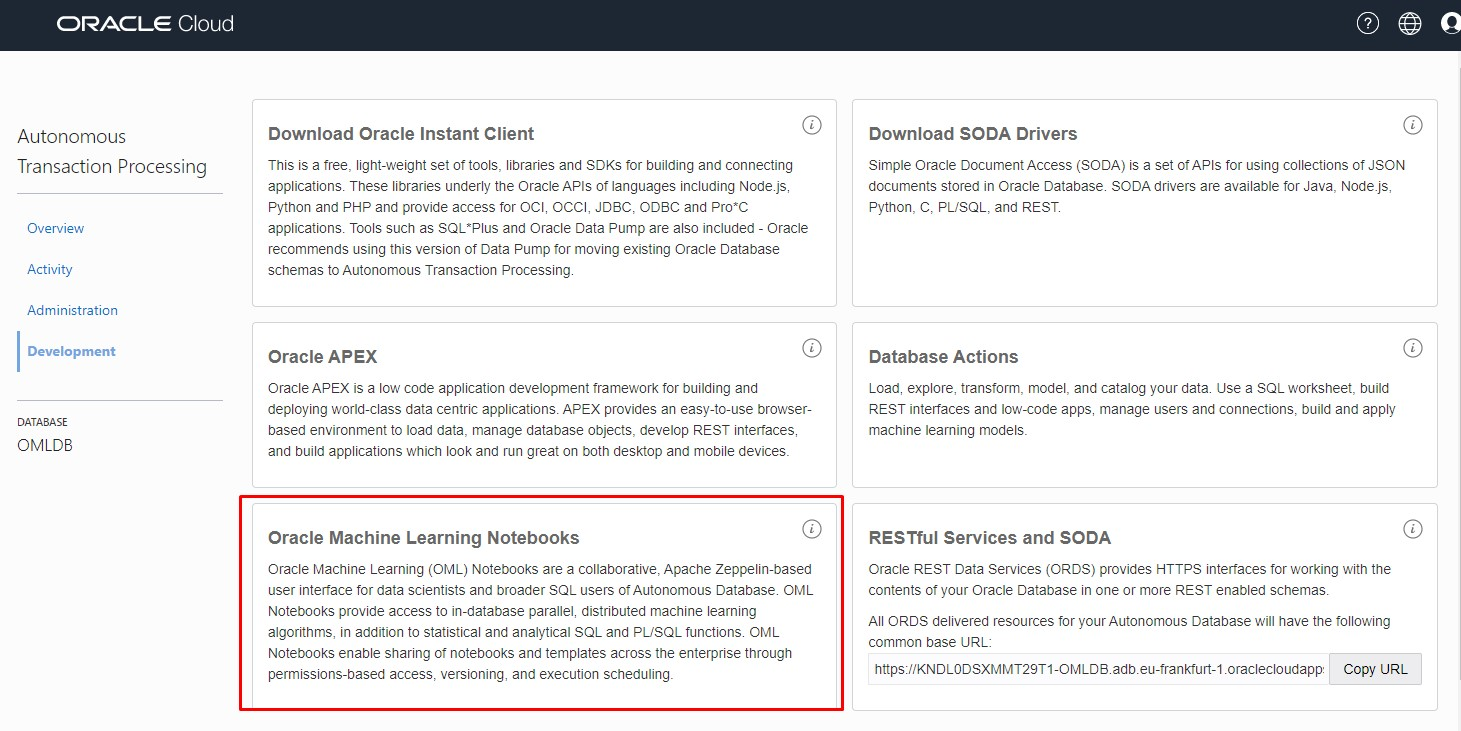
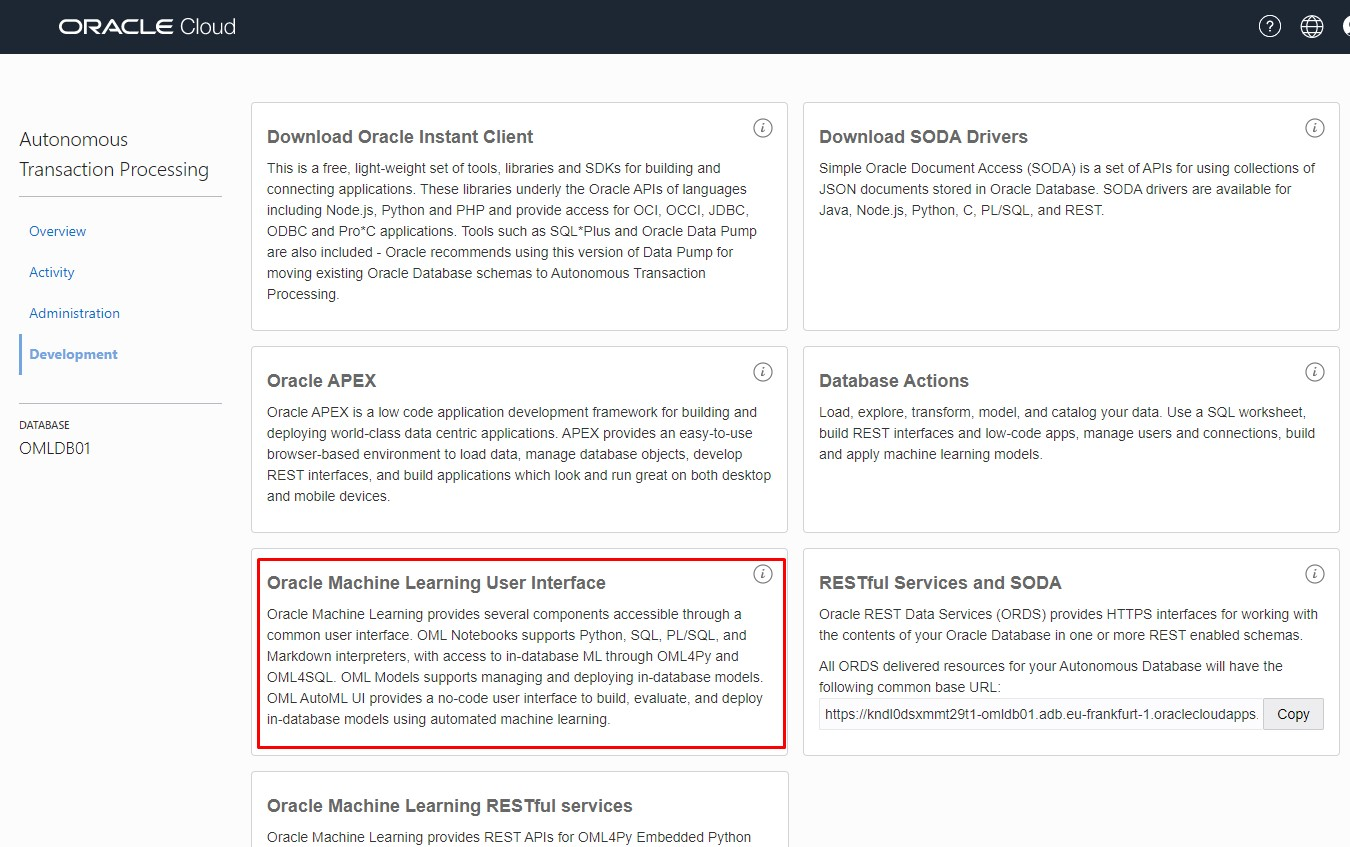
Updated the phrasing and some screenshots

diff --git a/oml-services/oml-notebook-and-automl-ui/oml-notebook-and-automl-ui.md b/oml-services/oml-notebook-and-automl-ui/oml-notebook-and-automl-ui.md
@@ -1,14 +1,16 @@
-# Creating models using OML Notebook and AutoML UI
+# Creating models using OML Notebooks and OML AutoML UI
 
-In this section we will connect to OML notebooks and split the data in train and test chunks. We will use the train data to run the AutoML UI and create a good model to make our prediction. The model we will deploy it to be used with rest services in the next sections.
+In this section we will connect to OML Notebooks and split the data in train and test chunks. We will use the train data to run the OML AutoML UI and create a good model to make our prediction. We will deploy the model for use with OML Services REST endpoints in the next sections.
+
+
 
 Estimated Time: 15 minutes
 
 ### Objectives
 
-* Create an OML Notebook
+* Create an OML notebook
 * Split the data into Train and Test Data
-* Use AutoML UI to create the models
+* Use OML AutoML UI to create the models
 * See the models created and Deploy one
 
 
@@ -19,7 +21,7 @@ Estimated Time: 15 minutes
 
 ##                                           
 
-## Task 1: Introduce Insurance Customer Data
+## Task 1: Connect to OML Notebooks and display Insurance Customer Data
 
 * In the Autonomous Database instance details page. Click on the Service Console button.
   ![ADB-instance-home](images/prerequisites-screenshot-22.jpg)
@@ -27,23 +29,13 @@ Estimated Time: 15 minutes
 * A new page with the service console is opened. In the Overview section we see the details of this specific instance. We can go to the Development section in the left side.
   ![ADB-service-console](images/prerequisites-screenshot-23.jpg)
 
-* In the Development section, notice the **Oracle Machine Learning RESTful services** section.
-  ![ADB-service-console](images/prerequisites-screenshot-X23.jpg)
 
-  Note 2 important URLs from this section:
-  + The URL to obtain a REST authentication token for OML-provided REST APIs:
-  `https://<oml-cloud-service-location-url>.oraclecloudapps.com/omlusers/`
-
-  + All OML Services REST APIs use the following common base URL:
-  `https://<oml-cloud-service-location-url>.oraclecloudapps.com/omlmod/`
-
-
-* Click on Oracle Machine Learning Notebooks.
+* Click on Oracle Machine Learning User Interface.
   ![ADB-service-console](images/prerequisites-screenshot-24.jpg)
 
-* Connect to OML Machine Learning Notebooks in Autonomous Database
+* Login to OML Machine Learning User Interface in Autonomous Database
 
-  Access the OML Machine Learning Notebooks link and connect with the credentials that we created earlier. In our case the credentials are:
+  Access the Oracle Machine Learning Notebooks link and connect with the credentials that we created earlier. In our case the credentials are:
 
    - Username: **OMLUSER**
    - Password: **Welcome12345**
@@ -91,8 +83,8 @@ Estimated Time: 15 minutes
     ````
     ![create-training-table](images/automl-screenshot-4.jpg)
 
-    Notice that we skip the ``LTV`` column so it would not influence the results. We keep the ``LTV_BIN`` column to be the target for learning.
-    Our goal is to learn how customers are classified in the 4 groups, that are the ``LTV_BIN`` groups. For this particular workshop we leave outside 3 specific customers so we can use them to demo the test of our models.
+    Notice that we skip the ``LTV`` column so it would not influence the results. We keep the ``LTV_BIN`` column to be the target for our supervised learning classification model.
+    Our goal is to build a model that can predict which LTV category each customer likely belongs to. For this particular workshop we exclude 3 specific customers so we will score 3 different models using their data.
 
 
 * Create the test table for our Auto ML UI
@@ -111,7 +103,7 @@ Estimated Time: 15 minutes
     Notice that in the testing table we will not use any of the leading ``LTV`` or ``LTV_BIN`` columns. These column might be misleading in the process. We will still use them in our verification process.
 
 
-## Task 2: Use AutoML UI from Autonomous Database
+## Task 2: Use OML AutoML UI from Oracle Autonomous Database
 
 * Go to the Main menu on the top left side near the Oracle Machine Learning icon.
 ![AutoML-menu](images/automl-screenshot-X06.jpg)
@@ -138,7 +130,7 @@ Estimated Time: 15 minutes
 
     ![AutoML-additional-settings](images/automl-screenshot-9.jpg)
 
-    Notice that we can choose the Database Service Level to High, and select by which metric should we compare the algorithms, and which predefined algorithms to include or exclude from this experiment.
+    Notice that we can set the Database Service Level to High, and select by which metric we should compare the models, and which predefined algorithms to include or exclude from this experiment.
 
       - Choose the following options for your experiment:
 
@@ -154,17 +146,17 @@ Estimated Time: 15 minutes
 
     ![Precision and Recall](images/Model_metric.jpg)
 
-* Run the Auto ML for classification by clicking **```Start```** and **```Better Accuracy```**.
+* Run OML Auto ML experiment by clicking **```Start```** and **```Better Accuracy```**.
 
   ![Run-AutoML](images/automl-screenshot-10.jpg)
 
-  The AutoML Classification will run for several minutes showing which top 5 algorithms have a higher Balanced Accuracy. The running process takes around 10 minutes.
+  The AutoML Classification will run for several minutes showing which top 5 algorithms have a Better Accuracy. The running process takes around 10 minutes.
 
-* And the result of the Auto ML Classification
+* And the result of the experiment
 
   ![Classification Experiment Result](images/automl-screenshot-11.jpg)
 
-  Each model described here is based on an algorithm and ran against our training data. We can click on the model name and see its details.
+  Each model described here is based on one of the automatically selected algorithms. We can click on the model name and see its details.
 
   ![Chose a model](images/automl-screenshot-12.jpg)
 
@@ -172,11 +164,12 @@ Estimated Time: 15 minutes
 
   ![Model Prediction Impacts](images/automl-screenshot-13.jpg)
 
-  Notice how the other table columns impact differently our model and which column has a higher weight in it. We can click on the Confusion Matrix tab.
+  Notice how the other predictor columns impact our model differently and which columns have a higher weight. We can click on the Confusion Matrix tab.
 
   ![Model Confusion Matrix](images/automl-screenshot-14.jpg)
 
-  There we can see for each class: **LOW**, **MEDIUM**, **HIGH**, **VERY HIGH** what percentage of customers are actually in that class and what percentage are predicted to be in that class.
+  There we can see for each class: **LOW**, **MEDIUM**, **HIGH**, **VERY HIGH** what percentage of customers correctly predicted for each combination of actual and predicted values.
+
 
 * We can rename the Support Vector Machine model so it would be easier to recognize in the next sections. For this we can select the model and click on the Rename button.
 
@@ -186,14 +179,14 @@ Estimated Time: 15 minutes
 
   ![Model Rename ](images/automl-screenshot-X114.jpg)
 
-* The model is now renamed in the results page also.
+* The model is now renamed in the Leader Board.
 
   ![Model Rename ](images/automl-screenshot-X1114.jpg)
 
 
 ## Task 3: Deploy the model for REST API access using OML Services
 
-The next steps would be to take a model and deploy it for OML Services Rest API access.
+The next steps are to take a model and deploy it for OML Services for access via Rest endpoints.
 
 * Go to the Main menu on the top left side near the Oracle Machine Learning icon.
   ![AutoML-menu](images/automl-screenshot-X06.jpg)
@@ -236,7 +229,7 @@ The next steps would be to take a model and deploy it for OML Services Rest API 
 
 ## Task 4: Verify the classification prediction
 
-  * Return to the OML Notebook Scratchpad we created earlier. Click on the menu and chose Notebooks.
+  * Return to the OML Notebooks Scratchpad we created earlier. Click on the menu and chose Notebooks.
   ![Classification Prediction](images/automl-screenshot-21.jpg)
 
 
@@ -264,7 +257,7 @@ The next steps would be to take a model and deploy it for OML Services Rest API 
 
   ![Classification Prediction](images/automl-screenshot-34.jpg)
 
- In SQL statement it is returned the most probable group or class for the data provided. In out case the prediction is the same as the actual ``LTB_BIN`` column in ``CUSTOMER_INSURANCE`` initial table.
+ The SQL statement returns the most probable group or class for the data provided in the column PREDICTION with it’s corresponding prediction probabilty. In out case the prediction is the same as the actual ``LTB_BIN`` column in ``CUSTOMER_INSURANCE`` initial table.
 
 ## Acknowledgements
 * **Authors** -  Andrei Manoliu, Milton Wan

diff --git a/oml-services/preparation/preparation.md b/oml-services/preparation/preparation.md
@@ -2,9 +2,9 @@
 
 ## Introduction
 
-In this lab we will start from a newly created Oracle Autonomous database and prepare it for our workshop.
+In this lab we will start from a newly created Oracle Autonomous Database instance and prepare it the workshop.
 
- We will collect the connection details like Tenancy ID, database name, create the users and passwords. After we will load the data into Autonomous Database and prepare to use it in the Machine Learning Notebooks.
+ You will collect the connection details like Tenancy ID, database name, create the users and passwords. After you will load the data into Autonomous Database and prepare to use it in Oracle Machine Learning Notebooks.
 
 
 Estimated Lab Time: 15 minutes
@@ -34,13 +34,13 @@ Estimated Lab Time: 15 minutes
 * In the Autonomous Database instance detail page, click on the Database Actions button.
 ![ADB-instance-tools](images/prerequisites-screenshot-3.jpg)
 
-* When prompt, enter the **Admin** username.
+* When prompted, enter the **Admin** username.
 ![ADB-actions-user](images/prerequisites-screenshot-4.jpg)
 
-* When prompt, enter the password for the Admin user and click Sign in.
+* When prompted, enter the password for the Admin user and click Sign in.
 ![ADB-actions-pass](images/prerequisites-screenshot-5.jpg)
 
-* Database Actions Launchpad page is now open. Here we have multiple tools available to easily manage and use the database, develop new applications or REST modules or manage the data inside the database.
+* The Database Actions launchpad page is now open. Here we have multiple tools available to easily manage and use the database, develop new applications or REST modules or manage data inside the database.
 
  We will choose Data Load option in the Data Tools category.
 ![ADB-data-load](images/prerequisites-screenshot-6.jpg)
@@ -78,10 +78,10 @@ The next step is to create the OML User and to add the data in his schema.
 * Returning in the Autonomous Database instance, click on Tools tab and click on the **Open Oracle ML User Administration**
 ![ADB-instance-home](images/prerequisites-screenshot-13.jpg)
 
-* In the Oracle Machine Learning Database Administrator credentials page enter the username: **ADMIN** and his password.
+* In the Oracle Machine Learning Database Administrator credentials page enter the username: **ADMIN** and password.
 ![ADB-oml-admin](images/prerequisites-screenshot-14.jpg)
 
-* In the Machine Learning User Administration  we see only the Admin user with the System Administrator role. Click on the Create button to create another user.
+* In the Machine Learning User Administration  we see only the ADMIN user with the System Administrator role. Click on the Create button to create another user.
 ![ADB-oml-admin](images/prerequisites-screenshot-15.jpg)
 
 * In the Create User page enter the following:
@@ -97,7 +97,7 @@ The next step is to create the OML User and to add the data in his schema.
     Click Create.
     ![ADB-oml-user](images/prerequisites-screenshot-16.jpg)
 
-* Now we have another user named OMLUSER available.
+* Now we have a new user named OMLUSER available.
 ![ADB-oml-user](images/prerequisites-screenshot-17.jpg)
 
 OMLUSER is also a database user and for the moment he doesn't have access to the customer insurance data we loaded in the admin user. so the next step is to move the data in the OMLUSER schema.
@@ -109,19 +109,19 @@ OMLUSER is also a database user and for the moment he doesn't have access to the
 * Returning in the Autonomous Database instance .Click **Database Actions**.
 ![ADB-instance-tools](images/prerequisites-screenshot-3.jpg)
 
-* When prompt, enter the **Admin** username.
+* When prompted, enter the **Admin** username.
 ![ADB-actions-user](images/prerequisites-screenshot-4.jpg)
 
-* When prompt, enter the password for the Admin user and click Sign in.
+* When prompted, enter the password for the Admin user and click Sign in.
 ![ADB-actions-pass](images/prerequisites-screenshot-5.jpg)
 
-* In the Database Actions Lounchpad click SQL to open Sql Developer web.
+* In the Database Actions Launchpad click SQL to open SQL Developer web.
 ![ADB-actions-sql](images/prerequisites-screenshot-18.jpg)
 
 * SQL Developer web opens.
 ![ADB-sql-web](images/prerequisites-screenshot-19.jpg)
 
-  Notice that it resembles the look and feel of the Sql Developer application. In the Left side we see the user: Admin and the table owned by the user. in our case it is just the **CUST\_INSUR\_LTV** table.
+  Notice that it resembles the look and feel of the SQL Developer application. In the Left side we see the user: Admin and the table owned by the user. in our case it is just the **CUST\_INSUR\_LTV** table.
 
   Write the following script to create the **CUSTOMER_INSURANCE** table in OMLUSER schema and click the Run button.
 
@@ -137,12 +137,12 @@ OMLUSER is also a database user and for the moment he doesn't have access to the
 * The table was created successfully.
 ![ADB-sql-web](images/prerequisites-screenshot-21.jpg)
 
-The next part is to use this data and create an AutoML model.
+The next step is to use this data and create an AutoML model.
 
 
 ## Acknowledgements
 * **Authors** -  Andrei Manoliu, Milton Wan
-* **Contiributors** - Rajeev Rumale
+* **Contiributors** - Rajeev Rumale, Mark Hornick, Sherry LaMonica
 * **Last Updated By/Date** -  Andrei Manoliu, December 2021
 
 ## Need Help?

diff --git a/oml-services/scoring-oml-using-rest-services/scoring-oml-using-rest-services.md b/oml-services/scoring-oml-using-rest-services/scoring-oml-using-rest-services.md
@@ -1,19 +1,19 @@
-# Scoring OML model using OML Services
+# Scoring Data using OML Services
 
-In this lab we will learn about accessing ML model using OML Services REST API.  We will use postman and curl to test the REST services, the required software is pre-installed on the virtual machine assigned.
+In this lab we will learn about accessing our deployed machine learning model using the OML Services REST API.  We will use Postman and cURL to invoke the REST API, the required software is pre-installed on the virtual machine assigned.
 
 
 Estimated Time: 15 minutes
 
 ### Objectives
-* Run POSTMAN call to get the Authentication Token
-* Score the model using POSTMAN
-* Run the CURL call to get the Authentication Token
-* Score the model using CURL
+* Use POSTMAN to invoke a REST endpoint to get the Authentication Token
+* Use the model to score data using POSTMAN
+* Run the cURL command to get the Authentication Token
+* Use the model to score data using CURL
 
 ### Prerequisites
-* The OML model saved and deployed in Autonomous Database.
-* POSTMAN and CURL available on your working environment
+* The OML model deployed to OML Services.
+* POSTMAN and cURL available on your working environment
 
 ##                                        
 ## Task 1: Access the model using REST APIs using POSTMAN
@@ -43,7 +43,7 @@ Estimated Time: 15 minutes
 
 ### Task 1.2: Authorize OML Services User
 
-  To access Oracle Machine Learning Services using the REST API, you must provide an access token. To authenticate and obtain an access token, use following POST command and the header to pass the user name and password for your Oracle Machine Learning Services account against the Oracle Machine Learning User Management Cloud Service REST endpoint /oauth2/v1/token.
+  To access OML Services using the REST API, you must provide an access token. To authenticate and obtain an access token, use following POST command and the header to pass the user name and password for your Oracle Machine Learning Services account against the OML User Management Cloud Service REST endpoint /oauth2/v1/token.
 
   The access token has a life span of one hour and can be refreshed before it expires.
     - A token can be refreshed up to 8 hours.
@@ -58,7 +58,7 @@ Estimated Time: 15 minutes
   ````
 
   Where:
-     - `<oml-cloud-service-location-url>`: is a variable containing the REST server portion of the Oracle Machine Learning User Management Cloud Service instance URL that includes the tenancy ID and database name.
+     - `<oml-cloud-service-location-url>`: is a variable containing the REST server portion of the Oracle Machine Learning User Management Cloud Service instance URL that includes the tenancy ID, region and database name.
 
 #### Obtain the `oml-cloud-service-location-url` URL
 
@@ -168,7 +168,7 @@ Choose the display format in RAW and copy the token starting from ``:"``  up unt
 
   ![Postman Model Score Access](images/automl-screenshot-29.jpg)
 
-  In the Body tab enter the Fran Hobs data in RAW format. Notice that we are not providing any of the ``LTV`` or ``LTV_BIN`` data, but provide fully the other important data
+  In the Body tab enter the Fran Hobs data in RAW format.
 
     ````
     <copy>
@@ -328,11 +328,11 @@ Choose the display format in RAW and copy the token starting from ``:"``  up unt
 
 
 
-## Task 2: Access the model using REST APIs using CURL
+## Task 2: Access the model using REST APIs using cURL
 
 ### Task 2.1: Prepare the REST calls
 
-To access Oracle Machine Learning Services using the REST API, you must provide an access token. To authenticate and obtain an access token, use cURL with the -d option to pass the user name and password for your Oracle Machine Learning Services account against the Oracle Machine Learning User Management Cloud Service REST endpoint /oauth2/v1/token.
+To access OML Services using the REST API, you must provide an access token. To authenticate and obtain an access token, use cURL with the -d option to pass the user name and password for your OML Services account against the Oracle Machine Learning User Management Cloud Service REST endpoint /oauth2/v1/token.
 
 * In the VM open a terminal and export the environment
 

diff --git a/oml-services/introduction/introduction.md b/oml-services/introduction/introduction.md
@@ -1,6 +1,6 @@
 # Introduction to OML Services
 
-REST interfaces have become popular for web application development in particular as they provide a lightweight approach for interacting with HTTP data and services. Developers increasingly rely on REST endpoints to provide advanced analytics functionality in applications. With the introduction of Oracle Machine Learning Services with Oracle Autonomous Database, Oracle makes it easy for data science teams and application developers to manage and deploy machine learning models using a REST API for ease of application integration. As such, OML Services facilitates collaborations across the data science team.
+REST interfaces have become popular for web application development as they provide a lightweight approach for interacting with HTTP data and services. Developers increasingly rely on REST endpoints to provide advanced analytics functionality in applications. With the introduction of Oracle Machine Learning Services with Oracle Autonomous Database, Oracle makes it easy for data science teams and application developers to manage and deploy machine learning models using a REST API for ease of application integration. As such, OML Services facilitates collaborations across the data science team.
 
 Oracle Machine Learning (OML) in Oracle Autonomous Database provides access to in-database machine learning features. OML Services extends OML functionality to support model deployment and model lifecycle management for both in-database OML models and third-party Open Neural Networks Exchange (ONNX) format machine learning models through REST APIs.
 
@@ -12,10 +12,11 @@ Estimated Time: 1 hour
 
 ### Objectives
 * Load data into Autonomous Database
-* Prepare the customer insurance data
+* Prepare data for modeling
 * Use AutoML to create a machine learning model
-* Use Postman to score the machine learning model using REST APIs  
-* Use Curl to score the machine-learning model using REST APIs in command line
+* Storing an OML model and score it using OML Services
+* Storing an ONNX model and score it using OML Services
+
 
 
 ### Prerequisites
@@ -27,14 +28,14 @@ Estimated Time: 1 hour
 ## Learn More
 
 * [REST API for Oracle Machine Learning Services](https://docs.oracle.com/en/database/oracle/machine-learning/omlss/omlss/index.html)
-* [About Oracle Machine Learning for Python](https://docs.oracle.com/en/database/oracle/machine-learning/oml4py/1/index.html)
+* [Oracle Machine Learning for Python](https://docs.oracle.com/en/database/oracle/machine-learning/oml4py/1/index.html)
 * [Oracle Machine Learning Notebooks](https://docs.oracle.com/en/database/oracle/machine-learning/oml-notebooks/)
 
 
 
 ## Acknowledgements
 * **Authors** -  Andrei Manoliu, Milton Wan
-* **Contiributors** - Rajeev Rumale
+* **Contiributors** - Rajeev Rumale, Mark Hornick, Sherry LaMonica
 * **Last Updated By/Date** -  Andrei Manoliu, December 2021
 
 ## Need Help?

diff --git a/oml-services/loading-oml-model-and-using-rest-srvices/loading-oml-model-and-using-rest-srvices.md b/oml-services/loading-oml-model-and-using-rest-srvices/loading-oml-model-and-using-rest-srvices.md
@@ -1,6 +1,6 @@
-# Loading an OML  model and score it using OML Services
+# Loading an OML model in OML Services and using it
 
-In this section of the workshop we will import and score the Decision Tree model used on the OML4PY workshop Step 3 in our Autonomous Database and score it using REST APIs
+In this section of the workshop we will import and score the Decision Tree model used on the OML4Py workshop Step 3 in our Autonomous Database and score it using REST APIs
 
 Estimated Time: 20 minutes
 
@@ -13,7 +13,7 @@ We are going to run the next steps:
 
 
 ### Prerequisites
-* Run the OML4PY workshop. (Optional)
+* Run the OML4Py workshop. (Optional)
 * Autonomous Database created
 * OML user created in Autonomous database
 * ``DTModel.mod`` on the VM

diff --git a/oml-services/loading-onnx-model-and-using-with-rest-services/loading-onnx-model-and-using-with-rest-services.md b/oml-services/loading-onnx-model-and-using-with-rest-services/loading-onnx-model-and-using-with-rest-services.md
@@ -38,7 +38,7 @@ Convert the model:
 
       ``onnxmltools.utils.save_model(onnxclassnn, 'onnxclassnn.onnx')``
 
-* create the manifest files
+* create the metadata.json file containing the function description.
 
       ``metadata = {"function": "classification", "classificationProbOutput": "output_probability"}``
       ``with open('metadata.json', mode='w') as f:
@@ -370,7 +370,7 @@ In the Body tab we are providing the data in the format with ``categorical_data`
 </copy>
 ```
 
-Notice that we are still not providing any of the ``LTV`` or ``LTV_BIN`` data, but provide fully the other important data.
+
 Here, topN filters the classification result showing the N highest probabilities, as shown in the scoring results below:
 
 Click Send
